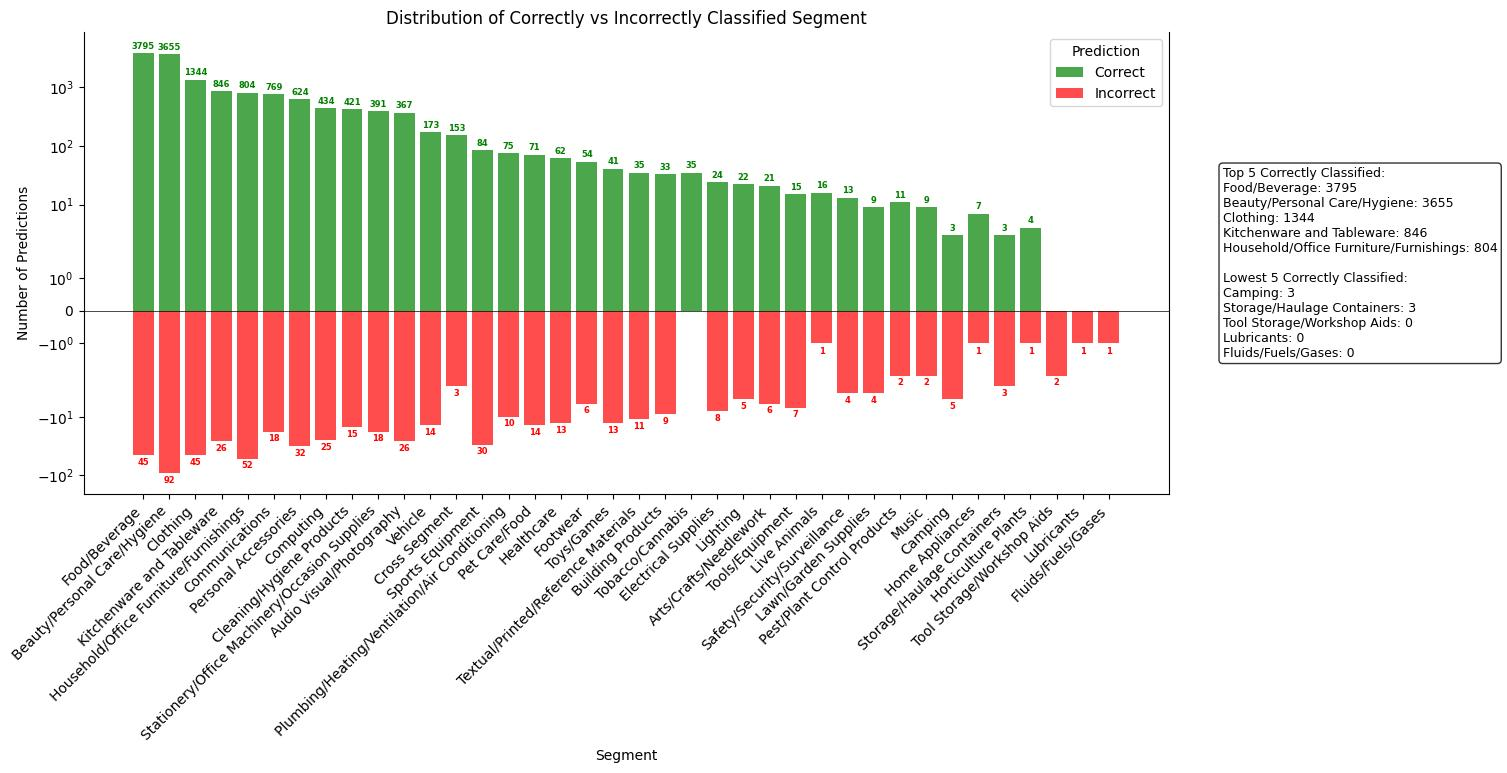
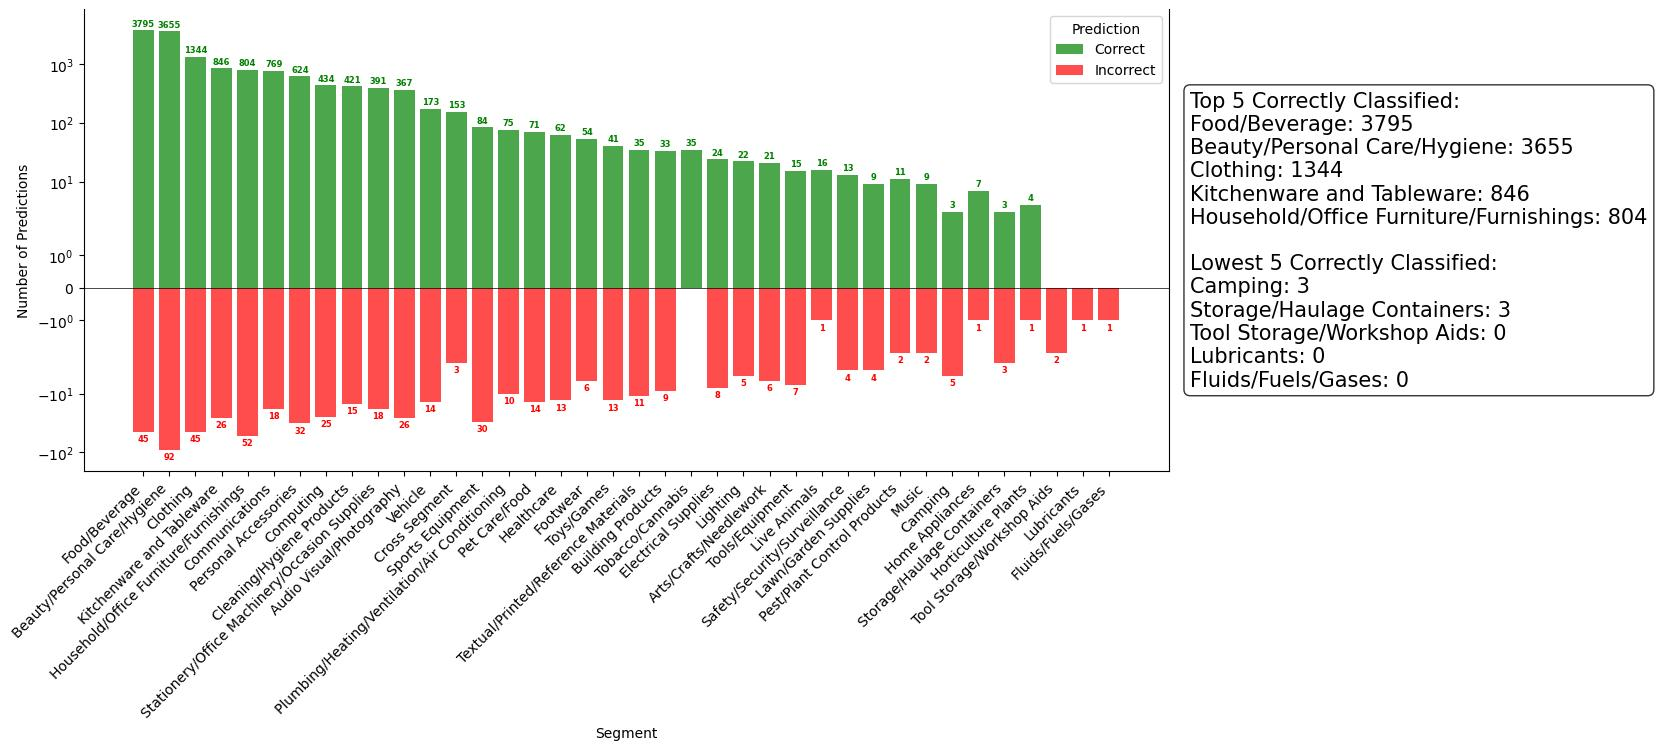
Functionalize plots

Changed region(s): [[0.0, 0.0307, 1.0, 0.9507], [0.2495, 0.0, 0.5926, 0.0307], [0.3743, 0.9507, 0.4366, 1.0]]

diff --git a/analysis/run_analysis.py b/analysis/run_analysis.py
@@ -1,12 +1,16 @@
+import numpy as np
 import pandas as pd
 import matplotlib.pyplot as plt
-import numpy as np
+from matplotlib.ticker import FuncFormatter
+
 import os
 import sys
 
 sys.path.append(os.path.dirname(os.path.dirname(os.path.abspath(__file__))))
 
 from src.constants import (
+    GPC_PATH,
+    DATASET_PATH,
     FULL_CONFIDENCE_DISTRIBUTION_GRAPH_PATH,
     CORRECT_CONFIDENCE_DISTRIBUTION_GRAPH_PATH,
     INCORRECT_CONFIDENCE_DISTRIBUTION_GRAPH_PATH,
@@ -15,27 +19,150 @@ from src.constants import (
     MODEL_PERFORMANCE_CLASS_GRAPH_PATH,
     ENSEMBLE_MODEL_OUTPUT_DATASET_PATH,
     ANALYSIS_DIR,
-   ENSEMBLE_PIPELINE_OUTPUT_PATH
+    GPC_COVERAGE_GRAPH_PATH,
+    ENSEMBLE_PIPELINE_OUTPUT_PATH,
+    PRODUCT_DISTRIBUTION_ACCROSS_SEGMENTS_GRAPH_PATH,
+    PRODUCT_DISTRIBUTION_ACCROSS_FAMILIES_GRAPH_PATH,
+    PRODUCT_DISTRIBUTION_ACCROSS_CLASSES_GRAPH_PATH,
 )
 
+def plot_level_distribution(
+    df: pd.DataFrame, 
+    level: str,
+    box_pos_x: float,
+    box_pos_y: float,
+    img_path: str
+) -> None:
+    fig, ax = plt.subplots(figsize=(18, 10))
 
-def draw_eda(df: pd.DataFrame) -> None:
-    df["is_correct"] = df.apply(lambda x: x["segment"]==x["pred_segment"], axis=1)
-    df_correct = df[df["is_correct"]==True]
-    df_incorrect = df[df["is_correct"]==False]
-    plot_confidence_distribution(df, FULL_CONFIDENCE_DISTRIBUTION_GRAPH_PATH)
-    plot_confidence_distribution(df_correct, CORRECT_CONFIDENCE_DISTRIBUTION_GRAPH_PATH)
-    plot_confidence_distribution(df_incorrect, INCORRECT_CONFIDENCE_DISTRIBUTION_GRAPH_PATH)
+    counts = df[level].value_counts()
+
+    colors = plt.cm.viridis(np.linspace(0, 1, len(counts)))
+
+    bars = ax.bar(range(len(counts)), counts.values, 
+                color=colors, alpha=0.8, edgecolor='white', linewidth=0.7)
+
+    x_smooth = np.linspace(0, len(counts)-1, 300)
+
+    def thousands_formatter(x, pos):
+        return f'{x/1000:.0f}K' if x >= 1000 else f'{x:.0f}'
+
+    ax.yaxis.set_major_formatter(FuncFormatter(thousands_formatter))
+
+    ax.set_xlabel(level.capitalize(), fontsize=14, fontweight='600', color='#34495e')
+    ax.set_ylabel('Number of Products', fontsize=14, fontweight='600', color='#34495e')
+
+    cum_counts = counts.cumsum()
+    total = counts.sum()
+
+    # Remove 100% cutoff - only keep 70% and 90%
+    cutoffs = {
+        "70%": cum_counts[cum_counts <= total * 0.7].index[-1],
+        "90%": cum_counts[cum_counts <= total * 0.9].index[-1]
+    }
+
+    for pct, seg in cutoffs.items():
+        idx = counts.index.get_loc(seg)
+        ax.axvline(idx + 0.5, color="red", linestyle="--", linewidth=1.5)
+        ax.text(idx + 0.5, ax.get_ylim()[1]*0.95, pct,
+                color="red", fontsize=12, fontweight="bold", ha="right")
+
+    labels = []
+    for label in counts.index:
+        if len(label) > 11:
+            words = label.split()
+            if len(words) > 1:
+                mid = len(words) // 2
+                label = ' '.join(words[:mid]) + ' \\ ' + ' '.join(words[mid:])
+            else:
+                label = label[:8] + '\\' + label[8:]
+        labels.append(label)
+
+    ax.grid(True, alpha=0.3, linestyle='-', linewidth=0.5, axis='y')
+    ax.set_axisbelow(True)
+
+    ax.spines['top'].set_visible(False)
+    ax.spines['right'].set_visible(False)
+    ax.spines['left'].set_color('#bdc3c7')
+    ax.spines['bottom'].set_color('#bdc3c7')
+
+    if level == "segment":
+        ax.set_xticks(range(len(counts)))
+        ax.set_xticklabels(labels, rotation=50, ha='right', fontsize=10, 
+                        verticalalignment='top')
+        total = sum(counts.values)
+        for i, (bar, value) in enumerate(zip(bars, counts.values)):
+            if i < 10:
+                ratio = value / total * 100
+                ax.text(
+                    bar.get_x() + bar.get_width() / 2,
+                    bar.get_height() + max(counts.values) * 0.01,
+                    f'{ratio:.1f}%', 
+                    ha='center',
+                    va='bottom',
+                    fontsize=9.5,
+                    fontweight='bold',
+                    color='#2c3e50'
+                )
+        top_3_indices = counts.head(3).index
+        for i, lvl in enumerate(counts.index):
+            if lvl in top_3_indices:
+                bars[i].set_edgecolor('#e74c3c')
+                bars[i].set_linewidth(3)
+                ax.get_xticklabels()[i].set_fontweight('bold')
+
+    # Create statistics box similar to reference code
+    top5 = counts.head(5)
+    bottom5 = counts.tail(5)
+
+    textstr = f"Top 5 {level.capitalize()}s by Product Count:\n"
+    textstr += "\n".join([f"{idx}: {val:,}" for idx, val in top5.items()])
+    textstr += f"\n\nLowest 5 {level.capitalize()}s by Product Count:\n"
+    textstr += "\n".join([f"{idx}: {val:,}" for idx, val in bottom5.items()])
+
+    props = dict(boxstyle="round", facecolor="white", alpha=0.8)
+    ax.text(box_pos_x, box_pos_y, textstr, transform=ax.transAxes,
+            fontsize=17, verticalalignment="center", bbox=props, color="black")
+
+    ax.set_yscale("log")
+
+    plt.tight_layout()
+    plt.subplots_adjust(bottom=0.15)
+
+    plt.savefig(img_path, bbox_inches='tight')
+    plt.close()
+
+def plot_gpc_coverage(df: pd.DataFrame, df_gpc: pd.DataFrame, img_path: str):
+    totals = {
+        "Segment": df_gpc["SegmentTitle"].nunique(),
+        "Family": df_gpc["FamilyTitle"].nunique(),
+        "Class": df_gpc["ClassTitle"].nunique(),
+    }
+
+    actuals = {
+        "Segment": df["segment"].nunique(),
+        "Family": df["family"].nunique(),
+        "Class": df["class"].nunique(),
+    }
+
+    levels = list(totals.keys())
+    coverage = [actuals[l] / totals[l] * 100 for l in levels]
+
+    plt.figure(figsize=(8,6))
+    bars = plt.bar(levels, coverage, color=["steelblue", "orange", "green"])
+
+    for i, bar in enumerate(bars):
+        height = bar.get_height()
+        plt.text(bar.get_x() + bar.get_width()/2, height + 1,
+                f"{height:.1f}%", ha='center', va='bottom', fontsize=11, fontweight="bold")
+        plt.text(bar.get_x() + bar.get_width()/2, -7,
+                f"{actuals[levels[i]]}/{totals[levels[i]]}", ha='center', va='top', fontsize=10, color="black")
+
+    plt.ylim(0, 110)
+    plt.ylabel("Coverage (%)")
     
-    plot_classification_results(df, "segment", MODEL_PERFORMANCE_SEGMENT_GRAPH_PATH, "absolute_value")
-    plot_classification_results(df, "family", MODEL_PERFORMANCE_FAMILY_GRAPH_PATH, "absolute_value")
-    plot_classification_results(df, "class", MODEL_PERFORMANCE_CLASS_GRAPH_PATH, "absolute_value")
-    plot_classification_results(df, "segment", MODEL_PERFORMANCE_SEGMENT_GRAPH_PATH, "percentage")
-    plot_classification_results(df, "family", MODEL_PERFORMANCE_FAMILY_GRAPH_PATH, "percentage")
-    plot_classification_results(df, "class", MODEL_PERFORMANCE_CLASS_GRAPH_PATH, "percentage")
-
-    plot_classification_by_sublevel(df, "segment", "family", ANALYSIS_DIR)
-    plot_classification_by_sublevel(df, "family", "class", ANALYSIS_DIR)
+    plt.savefig(img_path, bbox_inches='tight')
+    plt.close()
 
 def plot_confidence_distribution(df: pd.DataFrame, img_path: str) -> None:
     levels = ["segment", "family", "class"]
@@ -57,7 +184,7 @@ def plot_confidence_distribution(df: pd.DataFrame, img_path: str) -> None:
     )
     ax.set_ylabel("Percentage (%)", fontsize=12)
     ax.set_xlabel("Hierarchy Level", fontsize=12)
-    ax.set_title("Confidence Level Distribution by Hierarchy", fontsize=14, weight="bold", pad=15)
+    # ax.set_title("Confidence Level Distribution by Hierarchy", fontsize=14, weight="bold", pad=15)
     ax.set_ylim(0, 100)
     ax.set_xticklabels([lbl.capitalize() for lbl in ratios_df.index], rotation=0, fontsize=11)
     ax.yaxis.set_major_formatter(plt.FuncFormatter(lambda y, _: f"{int(y)}%"))
@@ -66,8 +193,8 @@ def plot_confidence_distribution(df: pd.DataFrame, img_path: str) -> None:
         fontsize=10, 
         title_fontsize=11, 
         loc="upper center", 
-        bbox_to_anchor=(0.5, -0.15), 
-        ncol=3, 
+        bbox_to_anchor=(0.5, -0.15),
+        ncol=3,
         frameon=True,
         fancybox=True,
         shadow=True
@@ -134,11 +261,11 @@ def plot_classification_results(df: pd.DataFrame, level: str, img_path: str, mod
 
     if mode == "percentage":
         ax.set_ylabel("Percentage (%)")
-        ax.set_title(f"Percentage Distribution of Correctly vs Incorrectly Classified {level.title()}")
+        # ax.set_title(f"Percentage Distribution of Correctly vs Incorrectly Classified {level.title()}")
         ax.set_ylim(-105, 105)
     else:
         ax.set_ylabel("Number of Predictions")
-        ax.set_title(f"Distribution of Correctly vs Incorrectly Classified {level.title()}")
+        # ax.set_title(f"Distribution of Correctly vs Incorrectly Classified {level.title()}")
         ax.set_yscale("symlog")
 
     ax.set_xticks(x_pos)
@@ -155,7 +282,7 @@ def plot_classification_results(df: pd.DataFrame, level: str, img_path: str, mod
                         ha="center", va="top", fontsize=6, color="red", weight="bold")
     else:
         ax.set_xticklabels([])
-        ax.set_xlabel("")
+        ax.set_xlabel(f"{level}")
 
     ax.axhline(y=0, color="black", linestyle="-", linewidth=0.5)
     ax.spines['top'].set_visible(False)
@@ -167,8 +294,8 @@ def plot_classification_results(df: pd.DataFrame, level: str, img_path: str, mod
     textstr += "\n\nLowest 5 Correctly Classified:\n" + "\n".join([f"{idx}: {val}" for idx, val in bottom5.items()])
 
     props = dict(boxstyle="round", facecolor="white", alpha=0.8)
-    ax.text(1.05, 0.5, textstr, transform=ax.transAxes,
-            fontsize=9, verticalalignment="center", bbox=props, color="black")
+    ax.text(1.02, 0.5, textstr, transform=ax.transAxes,
+            fontsize=15, verticalalignment="center", bbox=props, color="black")
 
     base, ext = os.path.splitext(img_path)
     img_path = f"{base}_{mode}{ext}"
@@ -212,8 +339,8 @@ def plot_classification_by_sublevel(df: pd.DataFrame, upper_level: str, sub_leve
 
         ax.set_ylabel("Number of Predictions")
         ax.set_xlabel(sub_level.title())
-        ax.set_title(f"Classification Results for {upper_level.title()}: {upper_label}\n"
-                     f"Performance across all {sub_level}")
+        # ax.set_title(f"Classification Results for {upper_level.title()}: {upper_label}\n"
+        #              f"Performance across all {sub_level}")
         ax.legend(title="Prediction")
         ax.set_yscale("symlog")
         ax.set_xticks(x_pos)
@@ -257,9 +384,33 @@ def plot_classification_by_sublevel(df: pd.DataFrame, upper_level: str, sub_leve
 
         print(f"Saved plot for {upper_level} '{upper_label}' showing performance across all {sub_level}s to {img_path}")
 
+def draw_eda(df: pd.DataFrame, df_full: pd.DataFrame, df_gpc: pd.DataFrame) -> None:
+    plot_gpc_coverage(df_full, df_gpc, GPC_COVERAGE_GRAPH_PATH)
+    plot_level_distribution(df_full, "segment", 0.65, 0.72, PRODUCT_DISTRIBUTION_ACCROSS_SEGMENTS_GRAPH_PATH)
+    plot_level_distribution(df_full, "family", 0.52, 0.75, PRODUCT_DISTRIBUTION_ACCROSS_FAMILIES_GRAPH_PATH)
+    plot_level_distribution(df_full, "class", 0.7, 0.6, PRODUCT_DISTRIBUTION_ACCROSS_CLASSES_GRAPH_PATH)
+    df_correct = df[df["is_correct_segment"]==True]
+    df_incorrect = df[df["is_correct"]==False]
+    plot_confidence_distribution(df, FULL_CONFIDENCE_DISTRIBUTION_GRAPH_PATH)
+    plot_confidence_distribution(df_correct, CORRECT_CONFIDENCE_DISTRIBUTION_GRAPH_PATH)
+    plot_confidence_distribution(df_incorrect, INCORRECT_CONFIDENCE_DISTRIBUTION_GRAPH_PATH)
+
+    plot_classification_results(df, "segment", MODEL_PERFORMANCE_SEGMENT_GRAPH_PATH, "absolute_value")
+    plot_classification_results(df, "family", MODEL_PERFORMANCE_FAMILY_GRAPH_PATH, "absolute_value")
+    plot_classification_results(df, "class", MODEL_PERFORMANCE_CLASS_GRAPH_PATH, "absolute_value")
+    plot_classification_results(df, "segment", MODEL_PERFORMANCE_SEGMENT_GRAPH_PATH, "percentage")
+    plot_classification_results(df, "family", MODEL_PERFORMANCE_FAMILY_GRAPH_PATH, "percentage")
+    plot_classification_results(df, "class", MODEL_PERFORMANCE_CLASS_GRAPH_PATH, "percentage")
+
+    plot_classification_by_sublevel(df, "segment", "family", ANALYSIS_DIR)
+    plot_classification_by_sublevel(df, "family", "class", ANALYSIS_DIR)
+
+
 def main():
+    df_gpc = pd.read_csv(GPC_PATH)
+    df_full = pd.read_csv(DATASET_PATH)
     df = pd.read_csv(ENSEMBLE_MODEL_OUTPUT_DATASET_PATH)
-    draw_eda(df)
+    draw_eda(df, df_full, df_gpc)
 
 if __name__ == "__main__":
     main()

diff --git a/src/constants.py b/src/constants.py
@@ -24,6 +24,14 @@ MODEL_PERFORMANCE_FAMILY_GRAPH_PATH = ANALYSIS_DIR / "model_performance_family.j
 
 MODEL_PERFORMANCE_CLASS_GRAPH_PATH = ANALYSIS_DIR / "model_performance_class.jpg"
 
+GPC_COVERAGE_GRAPH_PATH = ANALYSIS_DIR / "gpc_coverage.jpg"
+
+PRODUCT_DISTRIBUTION_ACCROSS_SEGMENTS_GRAPH_PATH = ANALYSIS_DIR / "product_distribution_accross_segments.jpg"
+
+PRODUCT_DISTRIBUTION_ACCROSS_FAMILIES_GRAPH_PATH = ANALYSIS_DIR / "product_distribution_accross_families.jpg"
+
+PRODUCT_DISTRIBUTION_ACCROSS_CLASSES_GRAPH_PATH = ANALYSIS_DIR / "product_distribution_accross_classes.jpg"
+
 DATA_PATH = BASE_DIR / "data"
 
 MODEL_OUTPUTS_DATA_PATH = DATA_PATH / "outputs"
